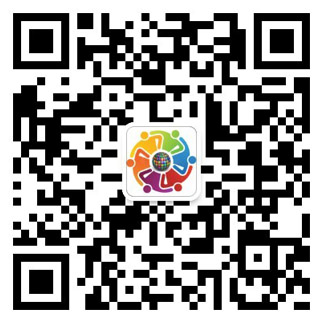
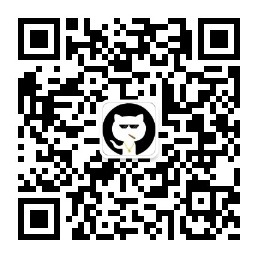
修改二维码

diff --git a/static/js/kf.js b/static/js/kf.js
@@ -21,8 +21,9 @@ $(function(){
     content +='<div class="weixing-show">';
     //content +='<div class="weixing-txt" style="font-size:13px;">支付宝扫一扫<br>每天领红包<br>0.1 - 99元<br><a href="http://likexia.gitee.io/game/article/fuli.html" target="_blank" title="凡是扫这个二维码领的红包，都可以找我拿返现，点击查看详情">查看详情</a></div>';
     //content +='<img class="weixing-ma" src="//likexia.gitee.io/game/images/kf/zfb-ma.jpg">';
-    content +='<div class="weixing-txt" style="font-size:13px;">打开手机QQ<br>扫码加群<br>一起讨论吧<br><a href="http://shang.qq.com/wpa/qunwpa?idkey=d10d784492d5e73cca25ff48f4763bdc14f698ffdbf42adbb0e9304495cb0387" target="_blank" title="点击加入 - GitHub游戏交流群:627141737">点击加群</a></div>';
-    content +='<img class="weixing-ma" src="http://likexia.gitee.io/game/images/kf/qun.jpg">';
+//    content +='<div class="weixing-txt" style="font-size:13px;">打开手机QQ<br>扫码加群<br>一起讨论吧<br><a href="http://shang.qq.com/wpa/qunwpa?idkey=d10d784492d5e73cca25ff48f4763bdc14f698ffdbf42adbb0e9304495cb0387" target="_blank" title="点击加入 - GitHub游戏交流群:627141737">点击加群</a></div>';
+    content +='<div class="weixing-txt" style="font-size:13px;">打开微信扫一扫<br>关注公众号<br><br><a href="http://shang.qq.com/wpa/qunwpa?idkey=d10d784492d5e73cca25ff48f4763bdc14f698ffdbf42adbb0e9304495cb0387" target="_blank" title="点击加入 - Git游戏交流群:627141737">Git游戏</a></div>';
+    content +='<img class="weixing-ma" src="http://likexia.gitee.io/game/images/kf/weixing-ma.jpg">';
     content +='<div class="weixing-sanjiao"></div>';
     content +='<div class="weixing-sanjiao-big"></div>';
     content +='</div>';

diff --git a/js/kf.js b/js/kf.js
@@ -21,7 +21,8 @@ $(function(){
     content +='<div class="weixing-show">';
     //content +='<div class="weixing-txt" style="font-size:13px;">支付宝扫一扫<br>每天领红包<br>0.1 - 99元<br><a href="http://likexia.gitee.io/game/article/fuli.html" target="_blank" title="凡是扫这个二维码领的红包，都可以找我拿返现，点击查看详情">查看详情</a></div>';
     //content +='<img class="weixing-ma" src="//likexia.gitee.io/game/images/kf/zfb-ma.jpg">';
-    content +='<div class="weixing-txt" style="font-size:13px;">打开手机QQ<br>扫码加群<br>一起讨论吧<br><a href="http://shang.qq.com/wpa/qunwpa?idkey=d10d784492d5e73cca25ff48f4763bdc14f698ffdbf42adbb0e9304495cb0387" target="_blank" title="点击加入 - GitHub游戏交流群:627141737">点击加群</a></div>';
+//    content +='<div class="weixing-txt" style="font-size:13px;">打开手机QQ<br>扫码加群<br>一起讨论吧<br><a href="http://shang.qq.com/wpa/qunwpa?idkey=d10d784492d5e73cca25ff48f4763bdc14f698ffdbf42adbb0e9304495cb0387" target="_blank" title="点击加入 - GitHub游戏交流群:627141737">点击加群</a></div>';
+    content +='<div class="weixing-txt" style="font-size:13px;">打开微信<br>扫码加群<br>一起讨论吧<br><a href="http://shang.qq.com/wpa/qunwpa?idkey=d10d784492d5e73cca25ff48f4763bdc14f698ffdbf42adbb0e9304495cb0387" target="_blank" title="点击加入 - GitHub游戏交流群:627141737">点击加群</a></div>';
     content +='<img class="weixing-ma" src="http://likexia.gitee.io/game/images/kf/qun.jpg">';
     content +='<div class="weixing-sanjiao"></div>';
     content +='<div class="weixing-sanjiao-big"></div>';
